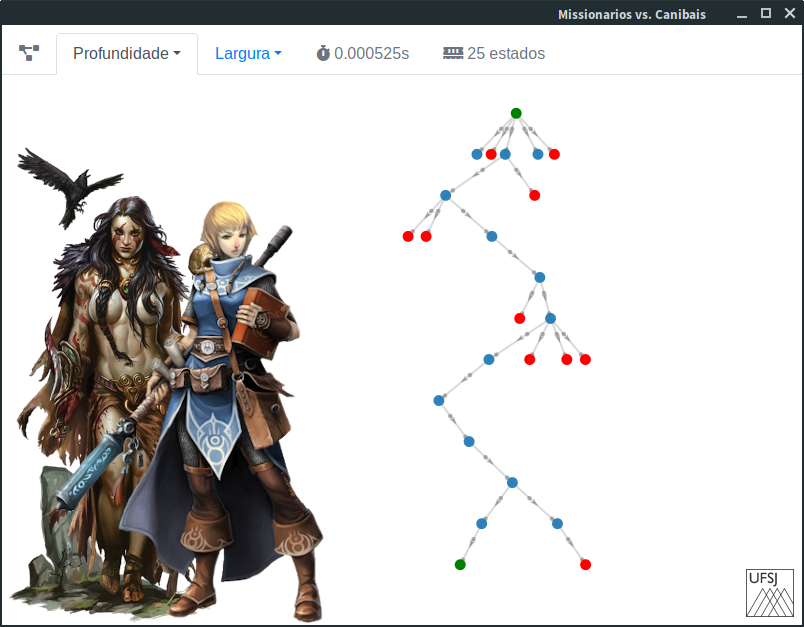
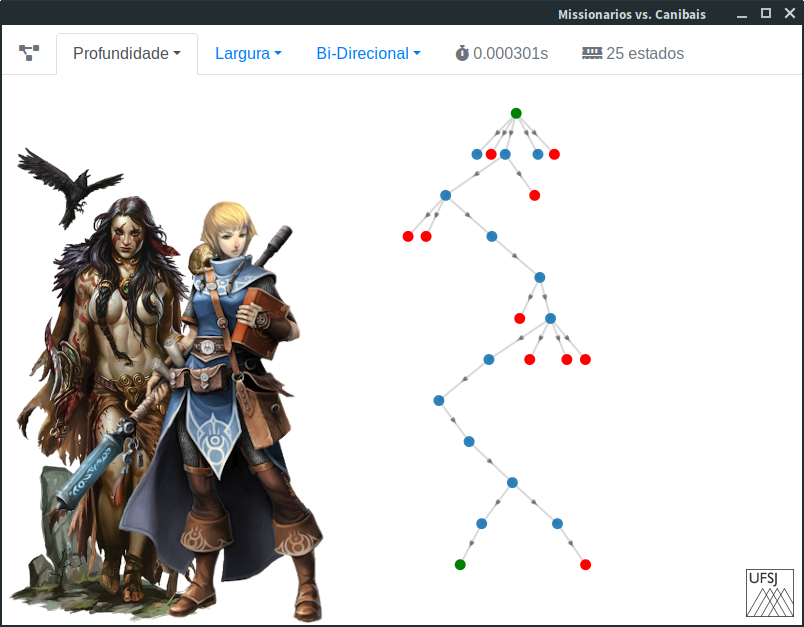
img last update

diff --git a/resources/graphs/bidirec.js b/resources/graphs/bidirec.js
@@ -61,4 +61,4 @@ const gData = {
 };
 
 $('span.memoria').text('28');
-$('span.tempo').text('0.000361s');
+$('span.tempo').text('0.000400s');

diff --git a/resources/graphs/largura.js b/resources/graphs/largura.js
@@ -55,4 +55,4 @@ const gData = {
 };
 
 $('span.memoria').text('25');
-$('span.tempo').text('0.000464s');
+$('span.tempo').text('0.000501s');

diff --git a/resources/graphs/profund.js b/resources/graphs/profund.js
@@ -55,4 +55,4 @@ const gData = {
 };
 
 $('span.memoria').text('25');
-$('span.tempo').text('0.000353s');
+$('span.tempo').text('0.000301s');
